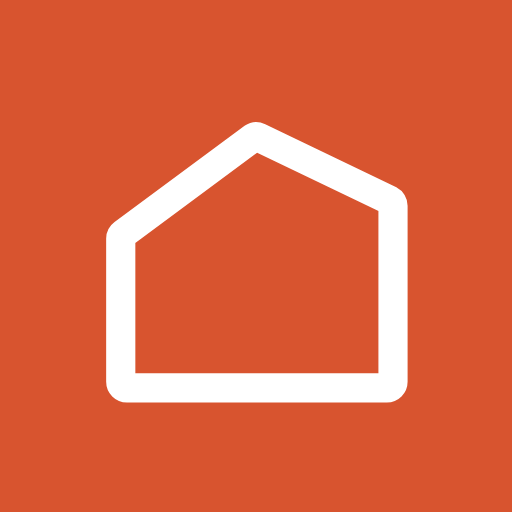
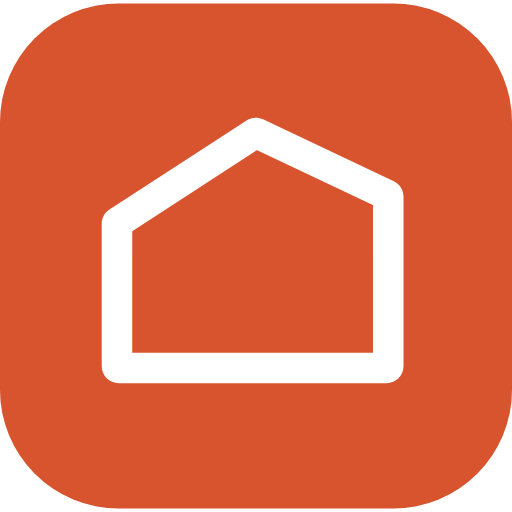
Nuevo icono de app (Group 72), iconos maskable, manifest instalable y service worker
Claude-Session: https://claude.ai/code/session_01R98pR6BdLuh5mxg6sjWNAp

diff --git a/index.html b/index.html
@@ -8,6 +8,7 @@
 <title>Komón APP</title>
 <meta name="apple-mobile-web-app-title" content="Komón APP">
 <link rel="icon" type="image/svg+xml" href="/favicon.svg">
+<link rel="icon" type="image/png" sizes="192x192" href="/icon-192.png">
 <link rel="apple-touch-icon" href="/apple-touch-icon.png">
 <link rel="manifest" href="/manifest.webmanifest">
 </head>

diff --git a/src/main.jsx b/src/main.jsx
@@ -4,3 +4,7 @@ import App from './App.jsx'
 import '@fontsource-variable/inter'
 import './styles.css'
 createRoot(document.getElementById('root')).render(<App />)
+
+if ('serviceWorker' in navigator && import.meta.env.PROD) {
+  window.addEventListener('load', () => navigator.serviceWorker.register('/sw.js').catch(() => {}))
+}

diff --git a/public/sw.js b/public/sw.js
@@ -1,0 +1,3 @@
+self.addEventListener('install',()=>self.skipWaiting());
+self.addEventListener('activate',e=>e.waitUntil(self.clients.claim()));
+self.addEventListener('fetch',()=>{});
